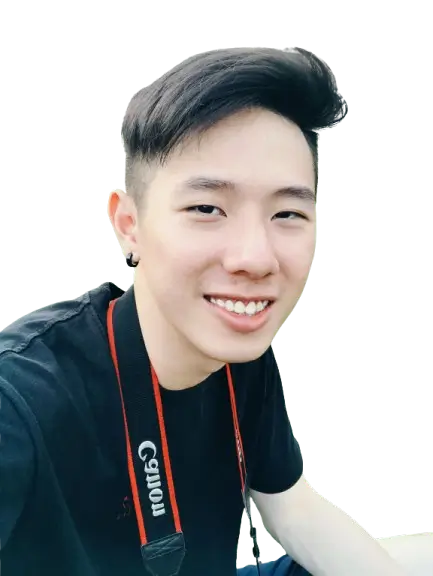
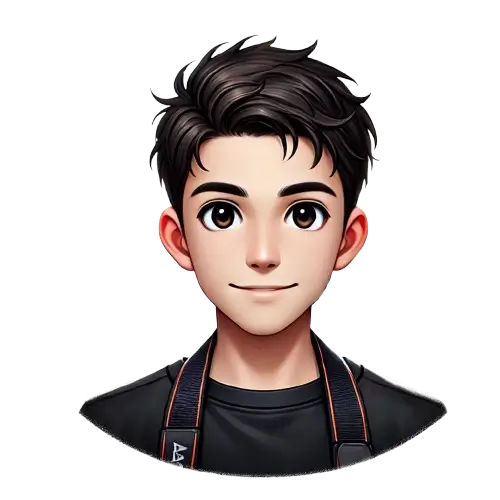
重構 Hero 組件以支援多語言，移除舊的資料檔案，並更新 i18n 語言檔以包含英雄相關內容

diff --git a/components/Hero.vue b/components/Hero.vue
@@ -1,27 +1,36 @@
 <script setup>
-import hero from "~/data/hero";
+const { t } = useI18n();
 </script>
 
 <template>
-  <div id="hero" class="py-8 h-dvh overflow-hidden relative">
+  <div
+    id="hero"
+    class="h-full md:h-[60dvh] overflow-hidden relative flex items-center"
+  >
     <div
       class="container mx-auto flex items-stretch justify-between gap-3 md:flex-row flex-col z-10"
     >
-      <div class="w-full flex items-center justify-center">
-        <NuxtImg
-          :src="hero.image"
-          :alt="hero.name"
-          class="w-6/12 h-3w-6/12 rounded-xl object-left-bottom object-contain"
-        />
+      <div class="relative w-full flex items-center justify-center">
+        <div class="relative w-6/12">
+          <NuxtImg
+            src="/img/avatar.webp"
+            :alt="t('hero.title')"
+            class="w-full h-full rounded-full object-left-bottom object-cover"
+          />
+        </div>
       </div>
 
       <div
         class="w-full flex flex-col justify-center text-[#121212] text-center md:text-left"
       >
-        <h1 class="text-5xl font-bold dark:text-gray-100">{{ hero.title }}</h1>
-        <h3 class="text-xl font-medium text-gray-500 pt-3">
-          {{ hero.subtitle }} <br />
-          {{ hero.subheading }}
+        <h1 class="text-5xl font-bold dark:text-gray-100">
+          {{ t("hero.title") }}
+        </h1>
+        <h3 class="text-2xl font-medium text-gray-500 pt-3">
+          {{ t("hero.subtitle") }} <br />
+          <span class="text-[15px]" style="letter-spacing: 3px">{{
+            t("hero.subheading")
+          }}</span>
         </h3>
       </div>
     </div>
